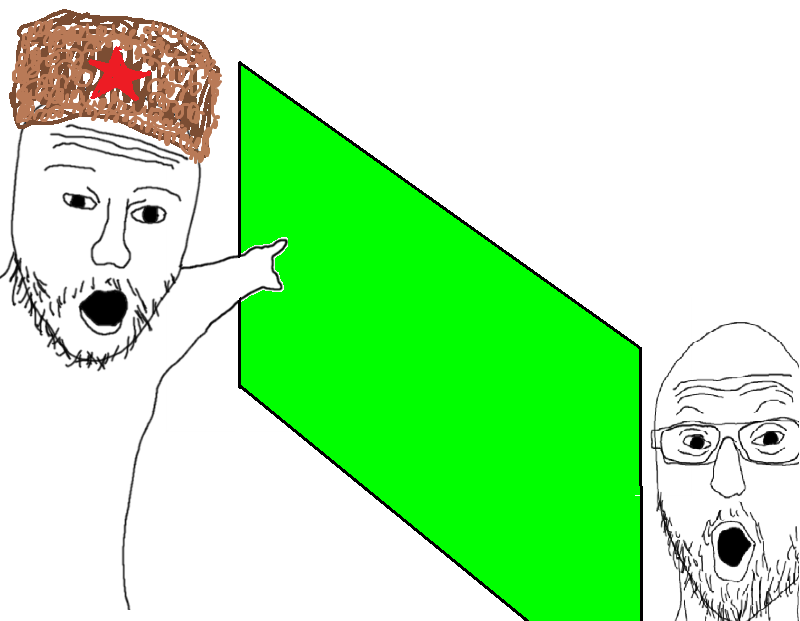
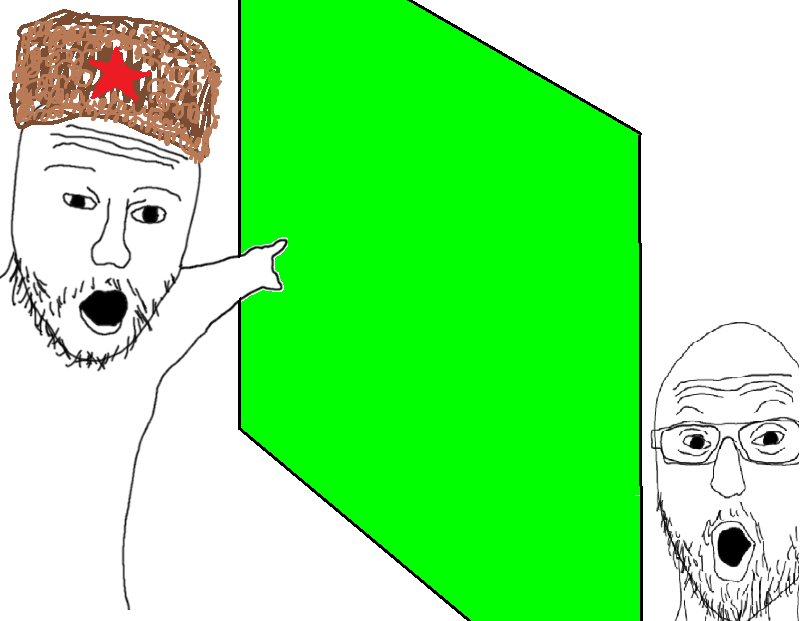
Yo-ho-ho! (deliberately no useful commit message)

Changed region(s): [[0.2812, 0.0, 0.8125, 0.5813], [0.2812, 0.6119, 0.6562, 1.0]]

diff --git a/web.py b/web.py
@@ -25,19 +25,21 @@ import datetime
 import sys
 import os
 
-templates = [0, 1, 2]
+templates = [0, 1, 2, 3]
 
 template_viewports = [
     [[238, 63], [643, 349], [642, 710], [239, 387]],
-    [[238, 63], [643, 349], [642, 710], [239, 387]],
-    [[238, 63], [643, 349], [642, 710], [239, 387]],
+    [[238, 63-160], [643, 133], [642, 764], [239, 427]],
+    [[0, 0], [800-1, 0], [800-1, 600-1], [0, 600-1]],
+    [[469, -210], [1324, 271], [1320, 965], [469, 437]],
 ]
 
 # aspect ratio of the view port in the template image
 template_aspects = [
     (3, 2),
-    (3, 2),
-    (3, 2),
+    (1, 2),
+    (4, 3),
+    (16, 10),
 ]
 
 
@@ -74,7 +76,9 @@ def cottonify():
 
     if request.method == 'POST':
         f = request.files['file']
-        template_id = int(request.args.get('t', '0'))
+        template_id = int(request.form.get('t', '0'))
+
+        print (template_id)
 
         if template_id not in templates:
             return ""

diff --git a/cotton.py b/cotton.py
@@ -121,14 +121,14 @@ def cottonify(src, template, viewport, viewport_aspect, noise=False):
 
 
 def main():
-    template_viewport = [[238, 63], [643, 349], [642, 710], [239, 387]]
-    template_aspect = (3, 2)  # aspect ratio of the view port in the template image
+    template_viewport = [[469, -210], [1324, 271], [1320, 965], [469, 437]]
+    template_aspect = (16, 10)  # aspect ratio of the view port in the template image
 
-    src = iio.imread(r'C:\Users\sergey\Desktop\real_photo.png').copy()
-    template = iio.imread(r'C:\Users\sergey\Desktop\template.png').copy()
+    src = iio.imread(r'test\test.jpg').copy()
+    template = iio.imread(r'c_templates\3.png').copy()
 
     img = cottonify(src, template, template_viewport, template_aspect, noise=True)
-    iio.imwrite(r'C:\Users\sergey\Desktop\res3.png', img)
+    iio.imwrite(r'test\out.png', img)
 
 
 if __name__ == "__main__":
